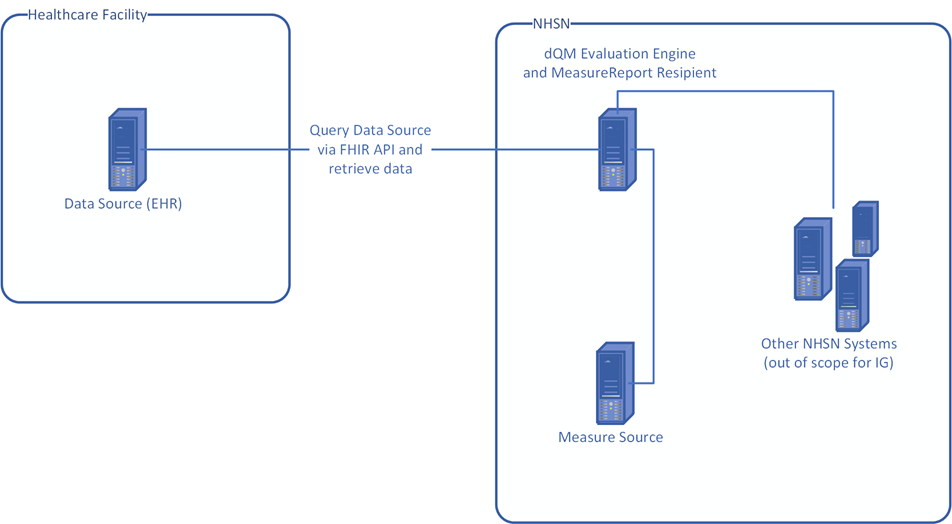
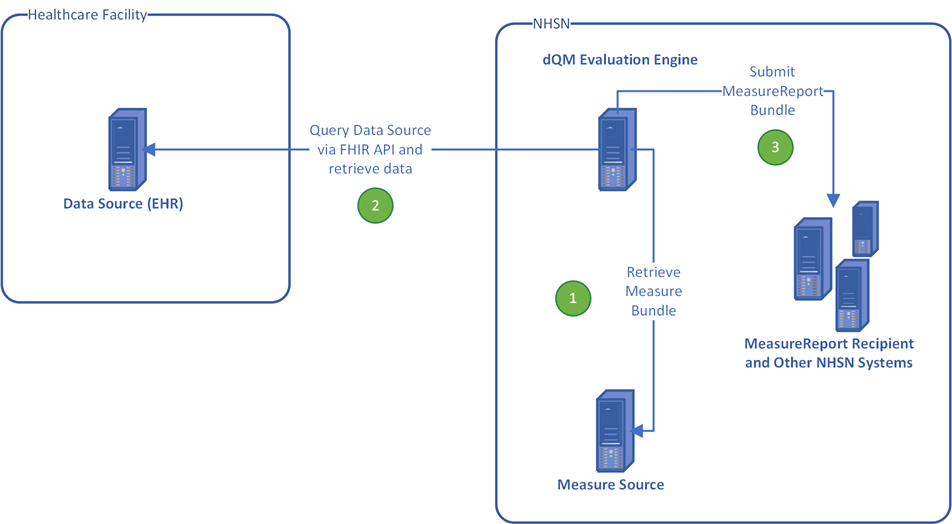
Added callouts to Pull from NHSN scenario Created NHSNMeasureBundle profile

diff --git a/input/pagecontent/specification.md b/input/pagecontent/specification.md
@@ -48,6 +48,10 @@ In this scenario the Data Source SHALL have a FHIR API that at a minimum provide
 
 ![Pull from NHSN](pull-from-nhsn.png){:style="float: none;"}
 
+1. Retrieve Measure Bundle: The dQM Evaluation Engine uses an HTTP GET an NHSNMeasureBundle containing a CRMIShareableMeasure and related resources. The exact Bundle(s) to retrieve is determined by the facility and NHSN during onboarding. After retrieving the Bundle, the dQM evaluation engine parses the contents to determine which resources are needed from the Data Source, then proceeds to step 2.
+2. Query Data Source: The dQM Evaluation Engine queries the FHIR API of the Data Source (likely a certified EHR in this scenario) using HTTP GET interactions to retrieve the PatientOfInterestList for each Measure retrieved in step 1 (the POI lists in question are determined by the facility and NHSN during onboarding), followed by the resources specified in the Measure(s) for each POI list. The dQM Evaluation Engine then evaluates those data against the Measure(s) and produces MeasureReport resources conforming to DEQMIndividualMeasureReportProfile for each patient that meets the measure criteria, along with a subject-list MeasureReport conforming to the DEQMSubjectListMeasureReport profile containing references to all the individual MeasureReport resources. These MeasureReport resources, along with all the patient data references in them, are then placed in an NHSNMeasureReport bundle for submission to NHSN before proceeding to step 3.
+3. Submit MeasureReport Bundle: The dQM Evaluation Engine uses an HTTP POST to submit the NHSNMeasureReportBundle to the MeasureReport Recipient. The MeasureReport Recipient validates the Bundle and proceeds to load the data into other NHSN systems (out of scope for this IG).
+
 ##### Push to NHSN
 
 In this scenario both the Data Source and dQM evaluation engine reside at the reporting facility, and may be the same system (i.e. an EHR that performs it's own internal measure evaluation). The dQM Evaluation Engine first retrieves the latest FHIR measures and related resources from the Measure Source and extracts the data requirements for each measure.  The dQM Evaluation Engine and queries the Data Source for data that it will evaluate against a measure and prepares Bundle containing MeasureReport and supporting resources, then sends it to the Measure Report Recipient at NHSN. The Measure Report Recipient then optionally performs pre-qualification (additional FHIR validation checks against measure-specific profiles) before making the data available to NHSN back end systems. 
